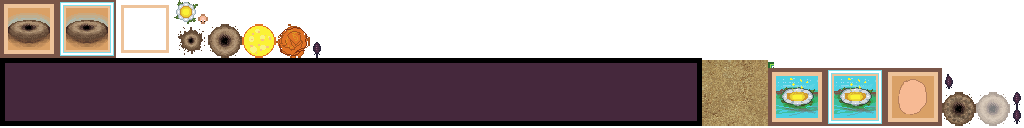
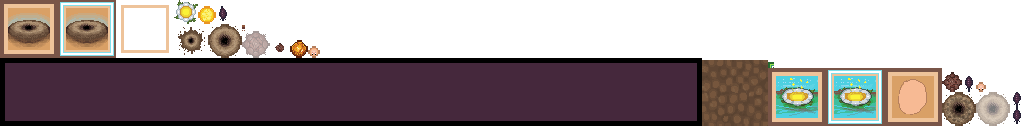
Updated some graphics and started working on projectiles

diff --git a/LudumDare38/core/src/com/gurbx/ld38/ui/BarrackMenu.java b/LudumDare38/core/src/com/gurbx/ld38/ui/BarrackMenu.java
@@ -37,7 +37,7 @@ public class BarrackMenu {
 	}
 	
 	private void initButtons(Stage stage) {
-		mobButton = new ImageButton[1];
+		mobButton = new ImageButton[2];
 		buttonX = 56; 
 		buttonY = 10;
         Skin skin = new Skin(atlas);
@@ -45,19 +45,39 @@ public class BarrackMenu {
         style1.imageUp = skin.getDrawable("mobButton1");
         style1.imageOver = skin.getDrawable("mobButton1");
         style1.imageDown = skin.getDrawable("mobButtonPressed1");
-
         mobButton[0] = new ImageButton(style1);
         
+        ImageButton.ImageButtonStyle style2 = new ImageButton.ImageButtonStyle();
+        style2.imageUp = skin.getDrawable("mobButton1");
+        style2.imageOver = skin.getDrawable("mobButton1");
+        style2.imageDown = skin.getDrawable("mobButtonPressed1");
+        mobButton[1] = new ImageButton(style2);
         
-        //Standard
+        
+        //Solider
         mobButton[0].addListener( new ClickListener() {
             @Override
             public void clicked(InputEvent event, float x, float y) {
             	if (!active) return;
             	if (mobHandler.canBuyMob(MobType.SOLIDER) == false) return;
-            	if (barracks.canSpawnMob() == false) return;
+            	if (barracks.canSpawnMob(MobType.SOLIDER) == false) return;
             	mobHandler.buyMob(MobType.SOLIDER);
             	barracks.spawnMob(MobType.SOLIDER);
+            	
+//            	houseHandler.placeNewHouse(HouseType.BASIC);
+//            	mobHandler.addMob(new Mob(new Vector2(spawmX,spawnY), MobType.SOLIDER, atlas));
+            };
+        });
+        
+        //Archer
+        mobButton[1].addListener( new ClickListener() {
+            @Override
+            public void clicked(InputEvent event, float x, float y) {
+            	if (!active) return;
+            	if (mobHandler.canBuyMob(MobType.ARCHER) == false) return;
+            	if (barracks.canSpawnMob(MobType.ARCHER) == false) return;
+            	mobHandler.buyMob(MobType.ARCHER);
+            	barracks.spawnMob(MobType.ARCHER);
             	
 //            	houseHandler.placeNewHouse(HouseType.BASIC);
 //            	mobHandler.addMob(new Mob(new Vector2(spawmX,spawnY), MobType.SOLIDER, atlas));
@@ -82,7 +102,19 @@ public class BarrackMenu {
 	public void render(SpriteBatch batch, BitmapFont font) {
 		if (barracks != null) {
 			font.setColor(Color.WHITE);
-			font.draw(batch, "" + barracks.getMobQueueSize(), buttonX + 45 , buttonY+55);
+			if (barracks.getMobQueueType() != null) {
+				switch (barracks.getMobQueueType()) {
+				case SOLIDER:
+					font.draw(batch, "" + barracks.getMobQueueSize(), buttonX + 45 , buttonY+55);
+					break;
+				case ARCHER:
+					font.draw(batch, "" + barracks.getMobQueueSize(), buttonX + 45 + modifier , buttonY+55);
+					break;
+
+				default:
+					break;
+				}
+			}
 		}
 	}
 

diff --git a/LudumDare38/core/src/com/gurbx/ld38/ui/HouseMenu.java b/LudumDare38/core/src/com/gurbx/ld38/ui/HouseMenu.java
@@ -24,7 +24,7 @@ public class HouseMenu {
 	}
 
 	private void initButtons(Stage stage, TextureAtlas atlas) {
-		houseButton = new ImageButton[2];
+		houseButton = new ImageButton[3];
 		float buttonX = 56; 
 		float buttonY = 10;
         Skin skin = new Skin(atlas);
@@ -37,9 +37,15 @@ public class HouseMenu {
         style2.imageUp = skin.getDrawable("houseButton2");
         style2.imageOver = skin.getDrawable("houseButtonOver2");
         style2.imageDown = skin.getDrawable("houseButtonPressed2");
+        
+        ImageButton.ImageButtonStyle style3 = new ImageButton.ImageButtonStyle();
+        style3.imageUp = skin.getDrawable("houseButton2");
+        style3.imageOver = skin.getDrawable("houseButtonOver2");
+        style3.imageDown = skin.getDrawable("houseButtonPressed2");
 
         houseButton[0] = new ImageButton(style1);
         houseButton[1] = new ImageButton(style2);
+        houseButton[2] = new ImageButton(style3);
         
         
         //Standard
@@ -58,6 +64,16 @@ public class HouseMenu {
             	if (!active) return;
             	if (houseHandler.canPlaceHouse(HouseType.POLLEN_PUMP) == false) return;
             	houseHandler.placeNewHouse(HouseType.POLLEN_PUMP);
+            };
+        });
+        
+        //Resin pump
+        houseButton[2].addListener( new ClickListener() {
+            @Override
+            public void clicked(InputEvent event, float x, float y) {
+            	if (!active) return;
+            	if (houseHandler.canPlaceHouse(HouseType.RESIN_PUMP) == false) return;
+            	houseHandler.placeNewHouse(HouseType.RESIN_PUMP);
             };
         });
         

diff --git a/LudumDare38/core/src/com/gurbx/ld38/utils/Projectile.java b/LudumDare38/core/src/com/gurbx/ld38/utils/Projectile.java
@@ -1,0 +1,48 @@
+package com.gurbx.ld38.utils;
+
+import java.util.ArrayList;
+
+import com.badlogic.gdx.graphics.g2d.Sprite;
+import com.badlogic.gdx.graphics.g2d.SpriteBatch;
+import com.badlogic.gdx.graphics.g2d.TextureRegion;
+import com.gurbx.ld38.waves.Enemy;
+
+public class Projectile implements GameInterface {
+	private float x, y;
+	private float targetX, targetY;
+	private float width, height;
+	private float lifeTime;
+	private boolean shouldRemove;
+	private Sprite sprite;
+	
+	public Projectile(float x, float y, float targetX, float targetY, float speed, ArrayList<Enemy> enemies, TextureRegion texture) {
+		this.sprite = new Sprite(texture);
+		this.width = texture.getRegionWidth();
+		this.height = texture.getRegionHeight();
+		this.sprite.setPosition(x, y);
+		lifeTime = 6f;
+	}
+
+	@Override
+	public void update(float delta) {
+		lifeTime-=delta;
+		if (lifeTime <= 0) shouldRemove = true;
+	}
+
+	@Override
+	public void render(SpriteBatch batch) {
+		// TODO Auto-generated method stub
+		
+	}
+
+	@Override
+	public void dispse() {
+		// TODO Auto-generated method stub
+	}
+	
+	public boolean shouldRemove() {
+		return shouldRemove;
+	}
+	
+
+}

diff --git a/LudumDare38/core/src/com/gurbx/ld38/house/ResinPump.java b/LudumDare38/core/src/com/gurbx/ld38/house/ResinPump.java
@@ -1,0 +1,40 @@
+package com.gurbx.ld38.house;
+
+import com.badlogic.gdx.graphics.Color;
+import com.badlogic.gdx.graphics.g2d.TextureAtlas;
+import com.gurbx.ld38.resources.Resources;
+import com.gurbx.ld38.utils.FloatingTextHandler;
+
+public class ResinPump extends House {
+	private int amountGenerated = 5;
+	private float cooldown = 2;
+	private float timer;
+	private Resources resources;
+
+	public ResinPump(float x, float y, HouseType type, TextureAtlas atlas, Resources resources) {
+		super(x, y, type, atlas);
+		this.resources = resources;
+		timer = cooldown;
+	}
+	
+	
+	@Override
+	public void update(float delta, float x, float y) {
+		super.update(delta, x, y);
+		if (buildFinnished) {
+			timer -= delta;
+		}
+		if (timer < 0) {
+			generateResin();
+			FloatingTextHandler.addText("" +amountGenerated, this.x - 3, this.y + 10, 20, 4.5f, Color.ORANGE);
+			timer = cooldown;
+		}
+	}
+
+
+	private void generateResin() {
+		resources.addResin(amountGenerated);
+		
+	}
+
+}

diff --git a/LudumDare38/core/src/com/gurbx/ld38/mobs/Mob.java b/LudumDare38/core/src/com/gurbx/ld38/mobs/Mob.java
@@ -63,7 +63,7 @@ public class Mob implements GameInterface, Target {
 	private void initAnimation(TextureAtlas atlas, MobType type) {
 		   TextureRegion[] moveFrames = new TextureRegion[type.getMoveFrames()];
 	       for (int i = 0; i < moveFrames.length; i++) {
-	    	   moveFrames[i] = atlas.findRegion("mob");
+	    	   moveFrames[i] = atlas.findRegion(type.getPath());
 	        }
 		   this.width = moveFrames[0].getRegionWidth();
 		   this.height =moveFrames[0].getRegionHeight();

diff --git a/LudumDare38/core/src/com/gurbx/ld38/house/Barracks.java b/LudumDare38/core/src/com/gurbx/ld38/house/Barracks.java
@@ -61,8 +61,9 @@ public class Barracks extends House {
 		}
 	}
 
-	public boolean canSpawnMob() {
+	public boolean canSpawnMob(MobType type) {
 		if (placed == true && buildFinnished) {
+			if (spawningMob && this.type != type) return false;
 			return true;
 		} 
 		return false;
@@ -70,6 +71,10 @@ public class Barracks extends House {
 	
 	public int getMobQueueSize() {
 		return mobQueue.size();
+	}
+
+	public MobType getMobQueueType() {
+		return type;
 	}
 
 }

diff --git a/LudumDare38/core/src/com/gurbx/ld38/house/HouseHandler.java b/LudumDare38/core/src/com/gurbx/ld38/house/HouseHandler.java
@@ -114,6 +114,10 @@ public class HouseHandler implements GameInterface {
 			resources.removeResin(type.getCost());
 			placedHouse = new Barracks(mouseX, mouseY, type, atlas, mobHandler);
 			break;
+		case RESIN_PUMP:
+			resources.removeResin(type.getCost());
+			placedHouse = new ResinPump(mouseX, mouseY, type, atlas, resources);
+			break;
 			
 
 		default:

diff --git a/LudumDare38/core/src/com/gurbx/ld38/mobs/MobType.java b/LudumDare38/core/src/com/gurbx/ld38/mobs/MobType.java
@@ -1,7 +1,8 @@
 package com.gurbx.ld38.mobs;
 
 public enum MobType {
-	SOLIDER("Mob", 10, 1, 1f, 25f, false, 80, "mob", 10, 5f, 1,1,1 );
+	SOLIDER("Solider", 10, 1, 1f, 25f, false, 80, "mob", 10, 5f, 1,1,1 ),
+	ARCHER("Archer", 10, 1, 1f, 25f, true, 280, "mobArcher", 10, 5f, 1,1,1 );
 	
 	private String name;
 	private int health;
